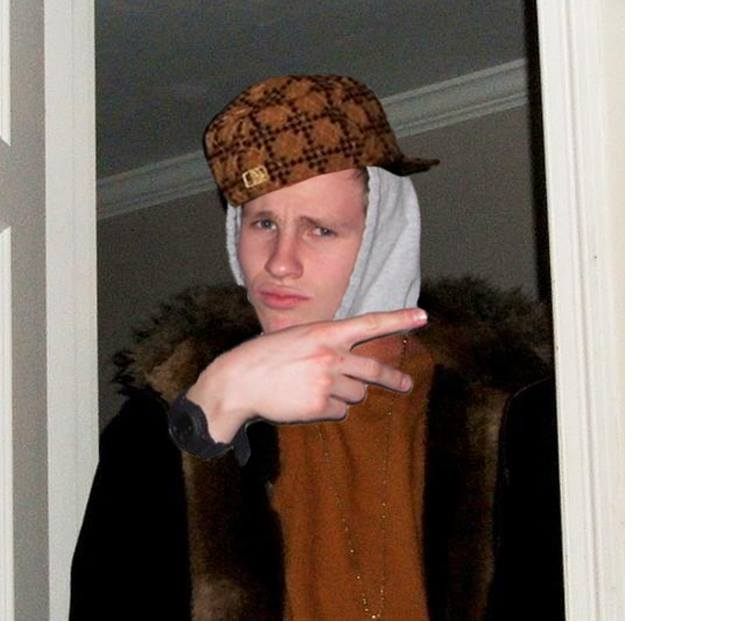
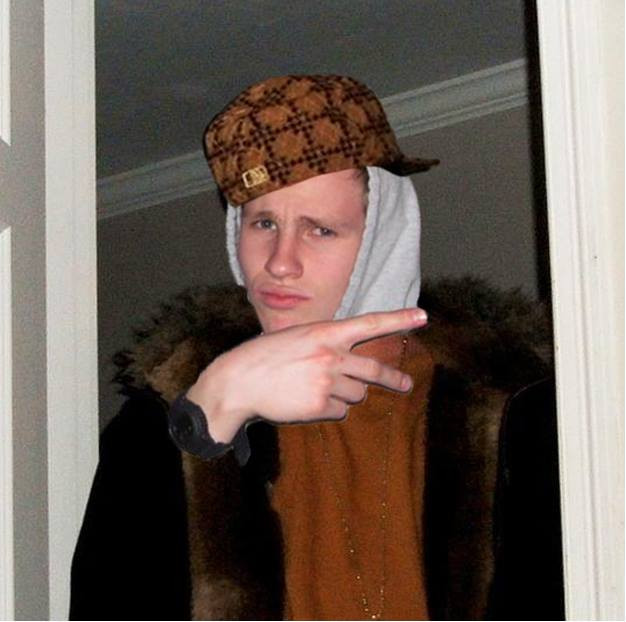
remove white sidebar from skumbag mike

diff --git a/index.html b/index.html
@@ -78,7 +78,7 @@
       "url_name": "memes/Office-Mike.jpg"
     }, {
       "name": "Skumbag Mike",
-      "w": 750,
+      "w": 626,
       "h": 622,
       "altNames": "skumbag mike",
       "positions": "",
